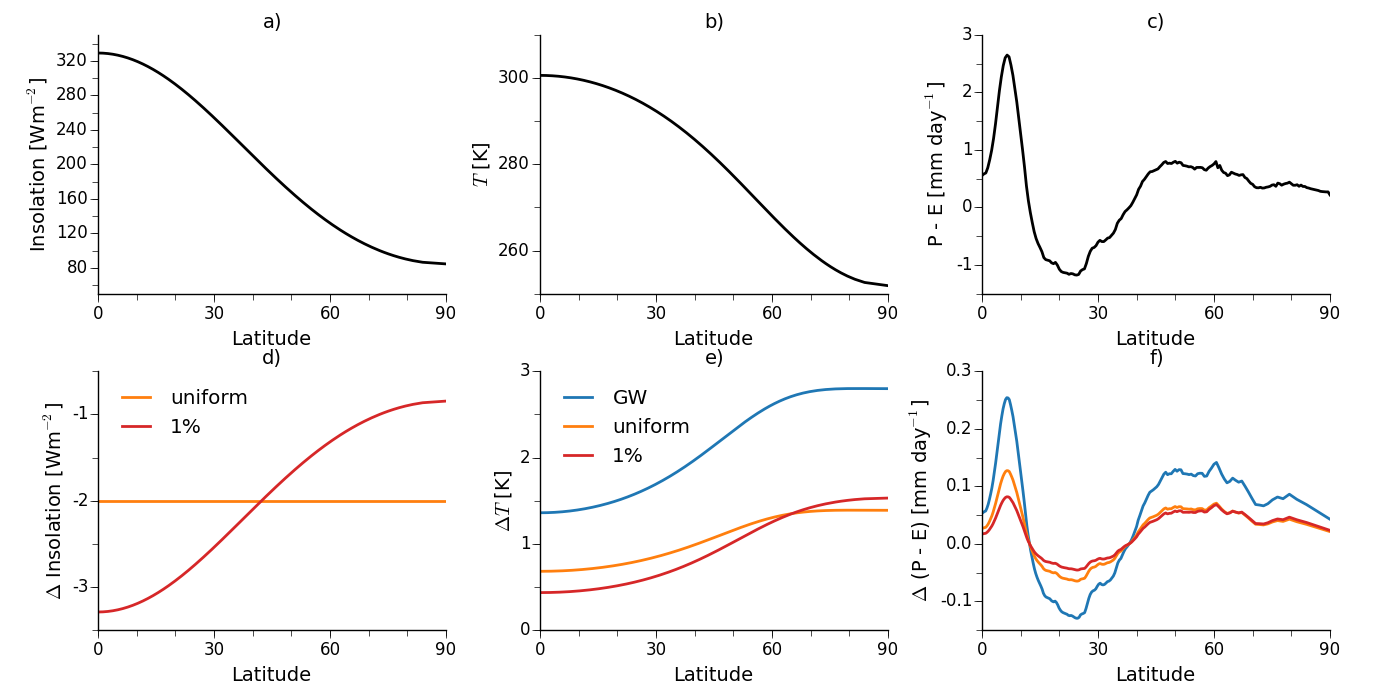
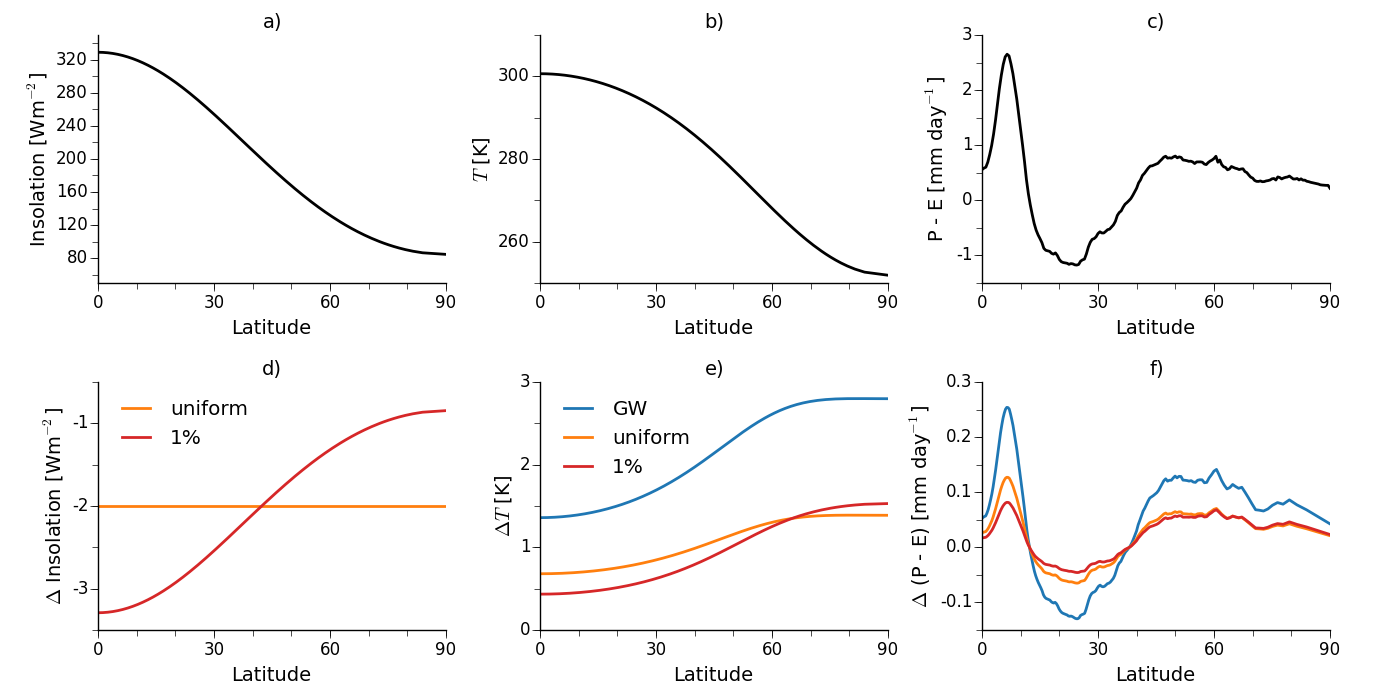
Added SRM post

diff --git a/_posts/2019-04-25-Thinking-About-How-to-Optimize-Solar-Geoengineering-with-a-Moist-Energy-Balance-Model.md b/_posts/2019-04-25-Thinking-About-How-to-Optimize-Solar-Geoengineering-with-a-Moist-Energy-Balance-Model.md
@@ -11,7 +11,7 @@ use_math: true
 
 <p>One option is to focus on maintaining the equator-to-pole temperature gradient. This is one of the key features of the climate system, and controls many other aspects of the climate. For instance, the speed and position of the mid-latitude jet-stream are largely set by the temperature gradient. Under global warming we expect the equator-to-pole temperature gradient to weaken, because higher latitudes warm faster than low latitudes. This would cause the jet stream to slow down, and we also expect the jet stream to shift polewards, though the jury is still out on why exactly. Both of these changes in the jet streams would have major consequences for climates at mid- and higher latitudes.</p>
 
-<p>Many SRM studies consider SRM implementations in which the incoming solar radiation is reduced by 1\% at all latitudes $($e.g., <a href="https://www.nature.com/articles/s41558-019-0398-8">Irvine et al.</a> from earlier this year; let's ignore the engineering question of how to achieve this$)$. However, in the annual-mean the tropics receive more sunlight than the high latitudes, so reducing the solar radiation by the same fraction at all latitudes results in a much larger cooling of the low latitudes than of the high latitudes, and the equator-to-pole temperature gradient still weakens. Alternatively, we could decrease the incoming radiation by the same amount at all latitudes, which would lead to a more uniform cooling, maintaining the equator-to-pole temperature gradient.</p>
+<p>Many SRM studies consider SRM implementations in which the incoming solar radiation is reduced by 1\% at all latitudes $($e.g., <a href="https://www.nature.com/articles/s41558-019-0398-8">Irvine et al.</a> from earlier this year; let's ignore the engineering question of how to achieve this$)$. However, in the annual-mean the tropics receive more sunlight than the high latitudes (see panel a of the figure below), so reducing the solar radiation by the same fraction at all latitudes results in a much larger cooling of the low latitudes than of the high latitudes, and the equator-to-pole temperature gradient still weakens. Alternatively, we could decrease the incoming radiation by the same amount at all latitudes, which would lead to a more uniform cooling, maintaining the equator-to-pole temperature gradient.</p>
 
 <p>To test these two options, I did some calculations with a simple moist energy balance model $($EBM -- see <a href="http://www.meteo.mcgill.ca/~tmerlis/publications/merlis_ebm_pa.pdf">Merlis and Henry</a> for details$)$. This consists of a single equation:
 $$
@@ -19,12 +19,12 @@ C \frac{\partial T (\phi)}{\partial t} = \frac{1}{4}QS(\phi)a(\phi) - (A + BT(\p
 $$
 where $C$ is the heat capacity of the ocean mixed-layer, $T$ is temperature, $\phi$ is latitude, $t$ is time, $\frac{1}{4}QS(\phi)a(\phi)$ is the incoming radiation as a function of latitude, $A + BT(\phi)$ approximates the radiative feedbacks, $\nabla\cdot\mathbf{H}(\phi)$ is the diffusion of moist static energy $(h)$ and $F$ is some radiative forcing, like that due to increasing CO$_2$ concentrations. I've used the same parameter values as Merlis and Henry, and the script for the calculations is <a href="http://nicklutsko.github.io/code/moist_EBM.py">here</a>.</p>
 
-<p>As a control, I integrated the moist EBM to equilibrium with $F = 0$, giving a surface temperature profile that compares reasonably well with what we see on Earth $($panel b of the Figure$)$. The temperature response to a uniform forcing of 4Wm$^{-2}$ is shown by the blue curve in panel e. This also looks like a typical global warming response, with the warming amplified at high latitudes. I then did two more experiments with the solar constant $($$Q$$)$ reduced uniformly by 2Wm$^{-2}$ and with $Q$ reduced by 1\% $($see panel d for the changes in insolation$)$.</p>
+<p>As a control, I integrated the moist EBM to equilibrium with $F = 0$, giving a surface temperature profile that compares reasonably well with what we see on Earth $($panel b of the figure$)$. The temperature response to a uniform forcing of 4Wm$^{-2}$ is then shown by the blue curve in panel e. This also looks like a typical global warming response, with the warming amplified at high latitudes. I then did two more experiments with the solar constant $($$Q$$)$ reduced uniformly by 2Wm$^{-2}$ and with $Q$ reduced by 1% $($see panel d for the changes in insolation$)$.</p>
 
 <img src="http://nicklutsko.github.io/notes/images/moist_EBM_geoengineering.png" alt="moist EBM geoeng" style="position:absolute; left:150px; width:700px;height:350px;" class="center">
 <br /><br /><br /><br /><br /><br /><br /><br /><br /><br /><br /><br /><br /><br /><br /><br /><br /><br /><br />
 
-<p>The temperature responses in these two cases $($orange and red lines in bottom left panel$)$ confirm that the equator-to-pole temperature gradient increases more when $Q$ is reduced by 1% compared to a uniform reduction in $Q$. </p>
+<p>The temperature responses in the two cases $($orange and red lines in bottom left panel$)$ show clearly that the equator-to-pole temperature gradient increases more when $Q$ is reduced by 1% compared to a uniform reduction in $Q$. </p>
 
 <p>But even with a uniform reduction, there is greater warming at high latitudes. The reason for this is that the moist static energy, $h$, depends on moisture as well as temperature. In a warmer world moisture increases faster at low latitudes than at high latitudes, following the Clausius-Clapeyron relation, and $h$ does as well. Since the MSE gradient increases, more MSE is diffused to higher latitudes, which warm up more as a result. So to really maintain the equator-to-pole temperature gradient we would actually want to reduce the insolation more at high latitudes than at low latitudes.</p>
 
